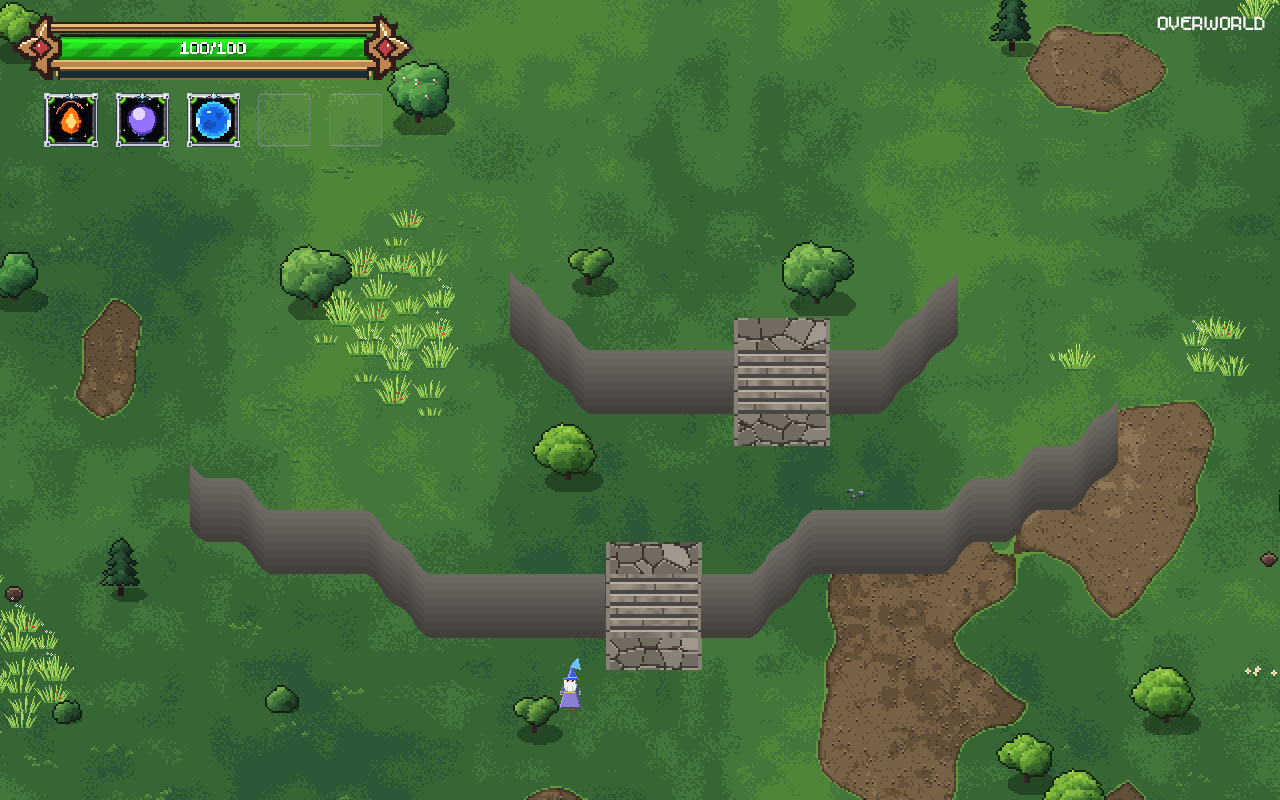
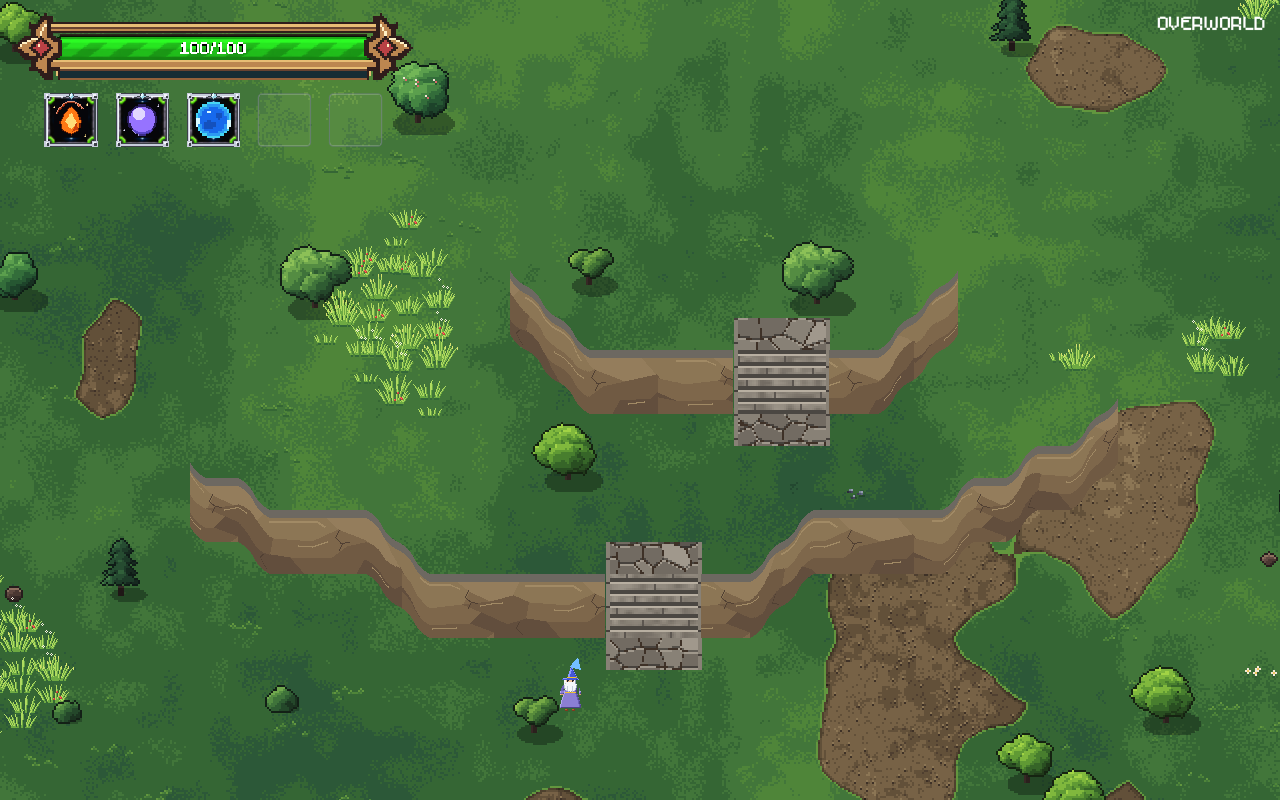
Use original earth-brown shaded cliff-front rock art

diff --git a/assets/sprites/SOURCE.md b/assets/sprites/SOURCE.md
@@ -749,3 +749,18 @@ SpriteU `gen_terrace_dualgrid.py` / `terrace-grass-cliff-16.json` exports 128x12
 ### Normal overworld grass correction
 
 Old dualgrid grass was a regression. Terrace tile grass regions now use the same world-coordinate fbm/vnoise and exact GRASS_P palette as ground_paint, at the same 2px art grid. Actual 16-mask tile placement remains; the shader paints only the grass local colour, not geometry/masks. Old grass variant texture sampling is removed. Flat rock colour is now #77716a (neutral stone), still no painted shadows. No gameplay/collision data changed.
+
+### Brown shaded front walls
+
+SpriteU source commit4d49bcf, tools/gen_terrace_front_rock.py and char-mode
+sprites/terrace-front-tiles-flat.json. Filename retained for continuity, but
+front-only painted shading is now intentional. Eight connected32x64 panels
+exported256x64 with matching left/right boundary colours on every row. World-X
+sampling preserves the connected texture across one-pixel face strips. Original
+earth-brown rock planes, sparse short fissures and broken facet lights. Palette
+uses the existing dirt family. Top8px neutral rim, actual16-mask grass transitions,
+placement, stair clipping and gameplay/collision remain unchanged. Shader no longer
+adds grey depth bands over painted front rock. Coast remains unchanged.
+References visually studied: https://grajopx.itch.io/rocky-pine-forest and
+https://snaply.itch.io/environmental-tiles-pixel-art-top-down-tileset. No external
+pixels copied. Deliberately simple broad slabs;256px repeat visible on long walls.
